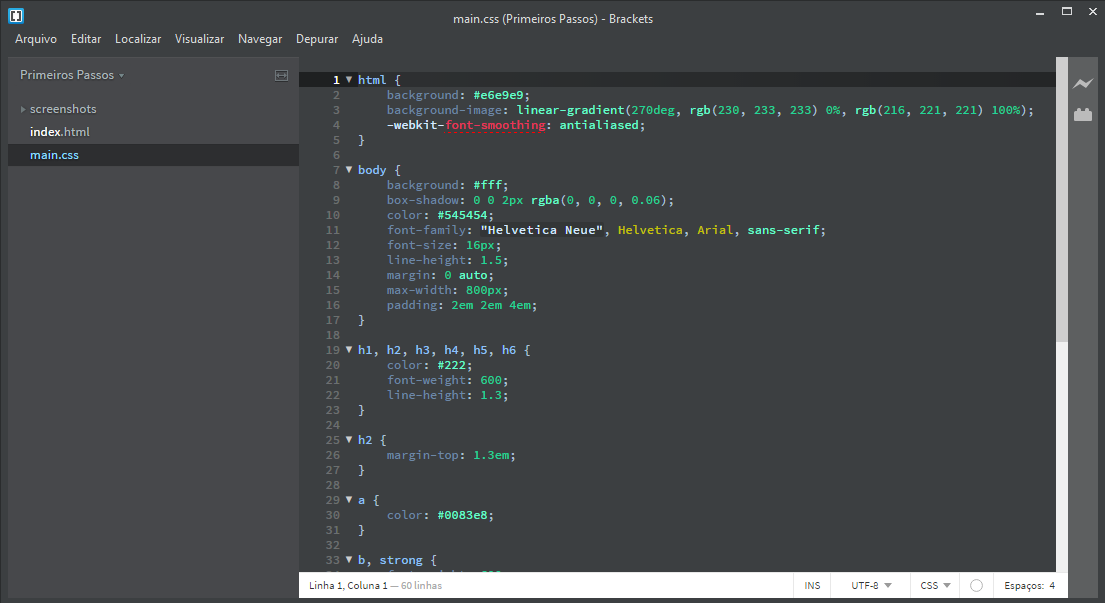
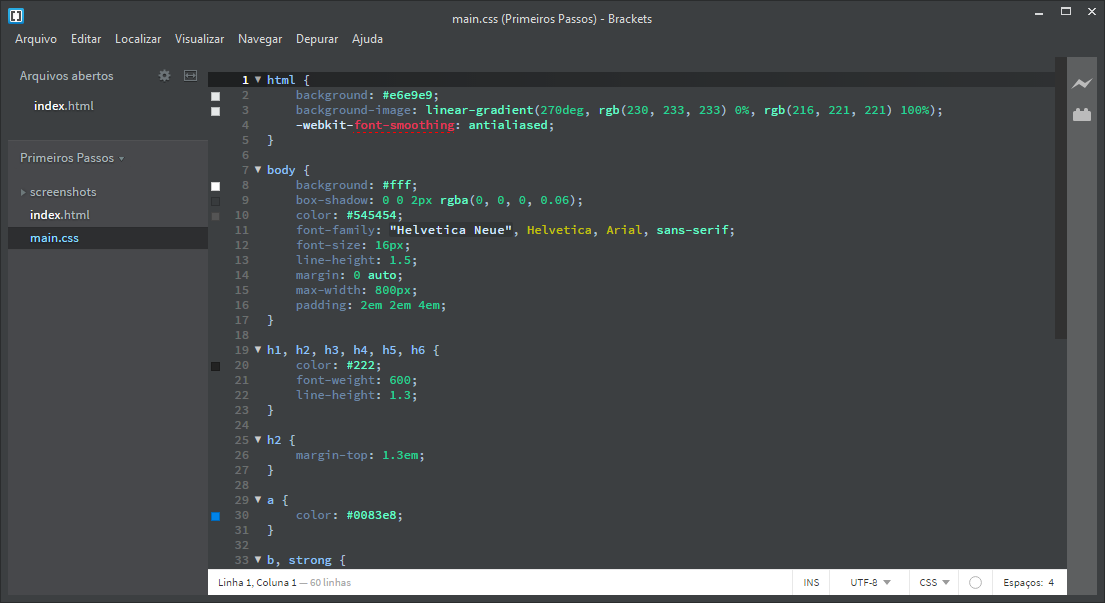
Update README

diff --git a/README.md b/README.md
@@ -28,7 +28,7 @@ You may download and install this extension in one of three ways.
 
 Or visit http://brackets-themes.github.io/ to see the latest install instructions.
 
-# Screenshot
+# Some screenshots:
 
 ### HTML
 ![HTML Screenshot](https://github.com/ArturGuedes/MinimalDark/blob/master/screenshots/html.png)
@@ -36,10 +36,15 @@ Or visit http://brackets-themes.github.io/ to see the latest install instruction
 ### CSS
 ![CSS Screenshot](https://github.com/ArturGuedes/MinimalDark/blob/master/screenshots/css.png)
 
+### Split
+![CSS Screenshot](https://github.com/ArturGuedes/MinimalDark/blob/master/screenshots/split.png)
+
 ### Full style
 ![PLUS Screenshot](https://github.com/ArturGuedes/MinimalDark/blob/master/screenshots/plus.png)
-We recommend using the extensions: [Extensions Toolbar Reposition](https://github.com/dnbard/extensions-toolbar) and [Minimap](https://github.com/zorgzerg/brackets-minimap) for a better experience!
+We recommend using the extension: [Minimal Dark+](https://github.com/ArturGuedes/MinimalDarkPlus) for a better experience!
 
 # License
 
 The MIT License. Read [LICENSE](LICENSE) for further information.
+
+
